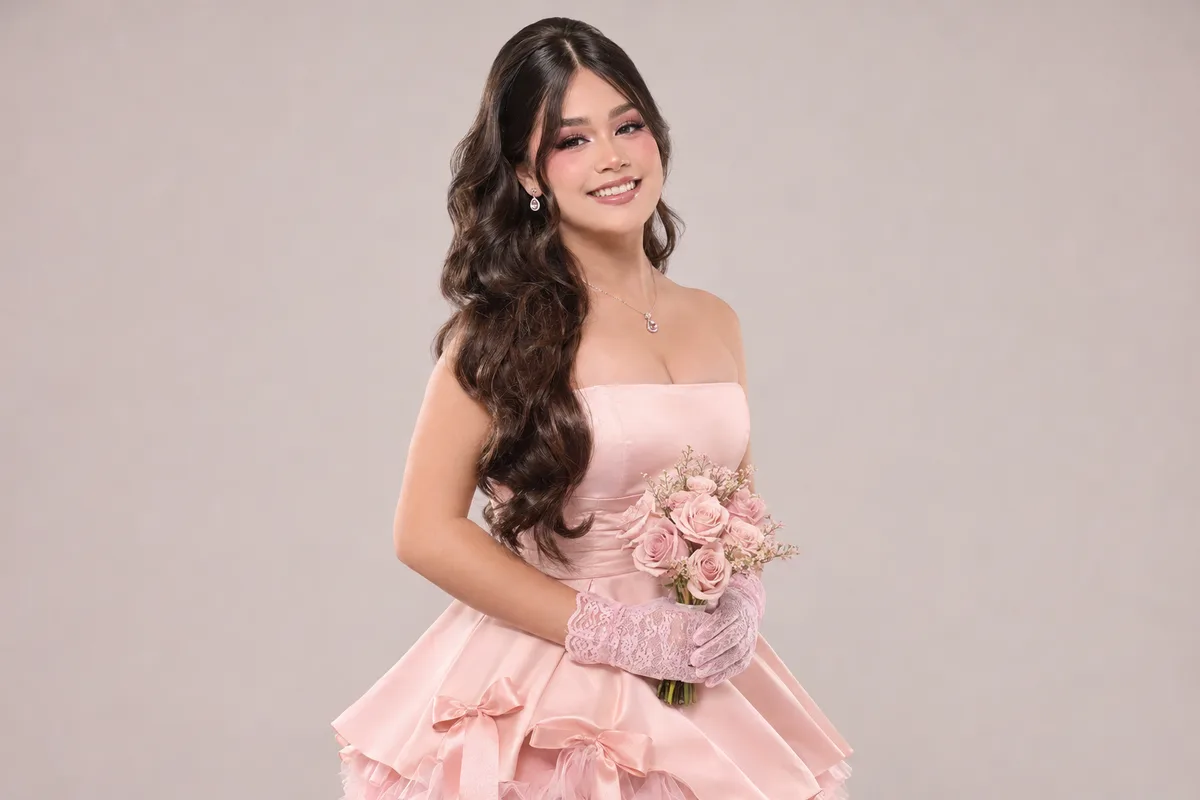
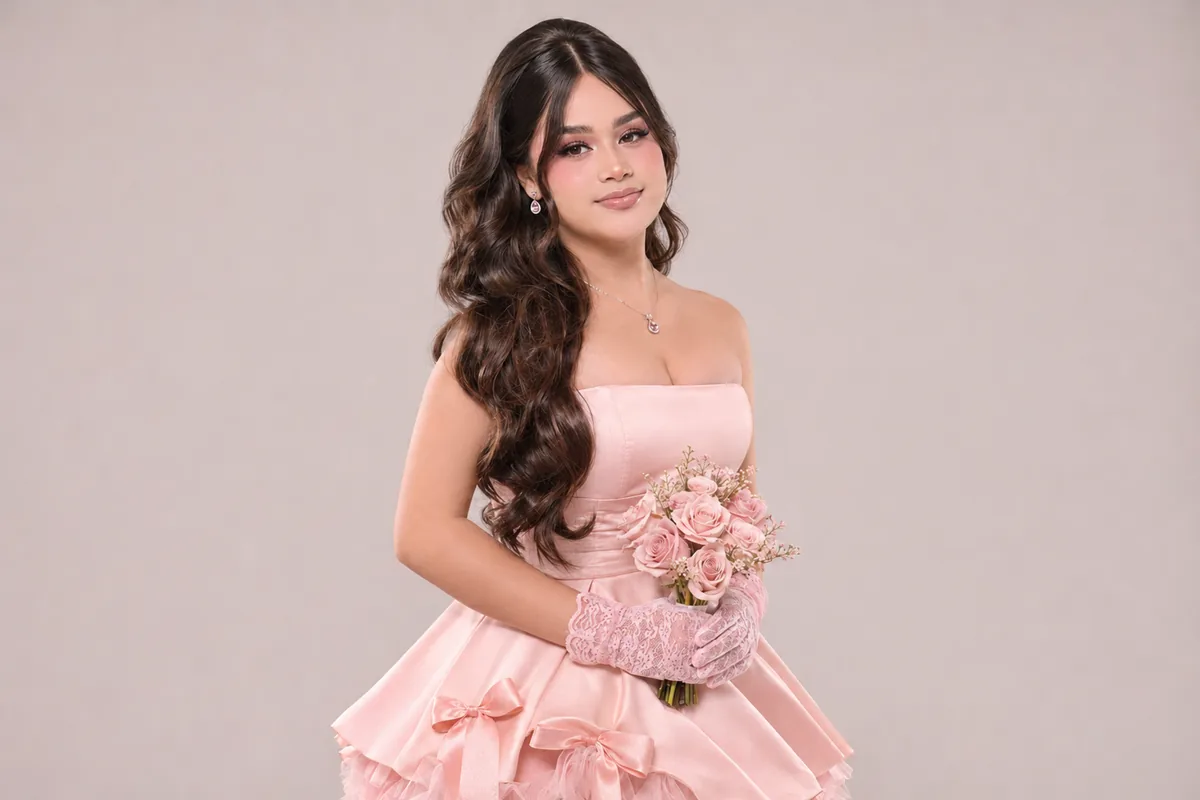
fix(invitations): replace Camila Beltrán gallery photos with approved v2
Swap gallery-01..03 for the client-approved versions: closed natural
smile and real face shape in gallery-01, a real-accessories detail
without the invented tiara in gallery-02, and a face-faithful
over-the-shoulder shot in gallery-03. Update the alt text to match.

diff --git a/src/invitations/clients/camila-beltran/invitation.ts b/src/invitations/clients/camila-beltran/invitation.ts
@@ -146,12 +146,12 @@ const content: CanonicalEventContentInput = {
 		items: [
 			{
 				image: 'gallery01',
-				alt: 'Camila sonriente con un ramo de rosas rosa palo y guantes de encaje',
+				alt: 'Camila con sonrisa suave, un ramo de rosas rosa palo y guantes de encaje',
 				focalPoint: '50% 35%',
 			},
 			{
 				image: 'gallery02',
-				alt: 'Tiara de cristal, guante de encaje y tul rosa sobre un pedestal blanco',
+				alt: 'Aretes de gota rosa, collar fino, guante de encaje y tul rosa sobre un pedestal blanco',
 				focalPoint: '50% 50%',
 			},
 			{
